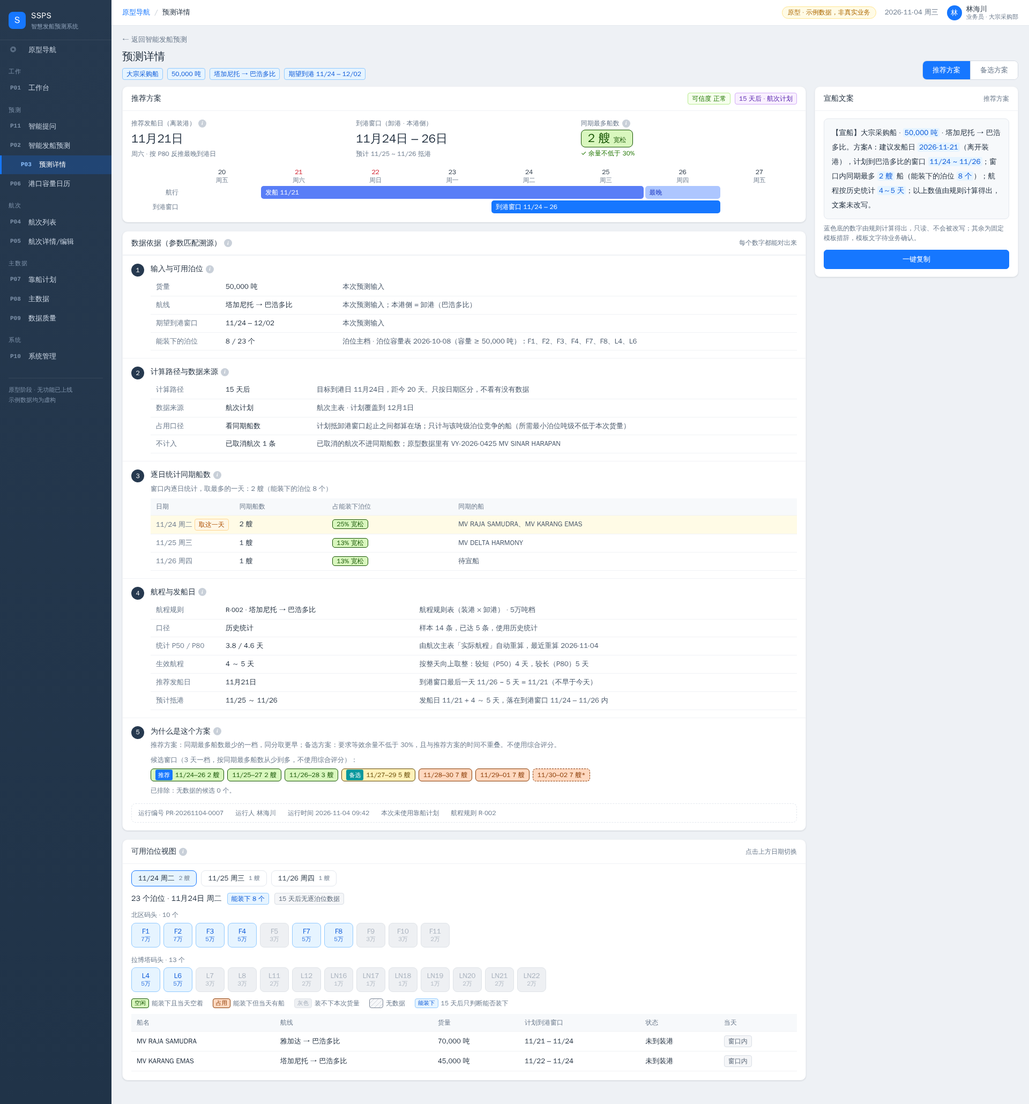
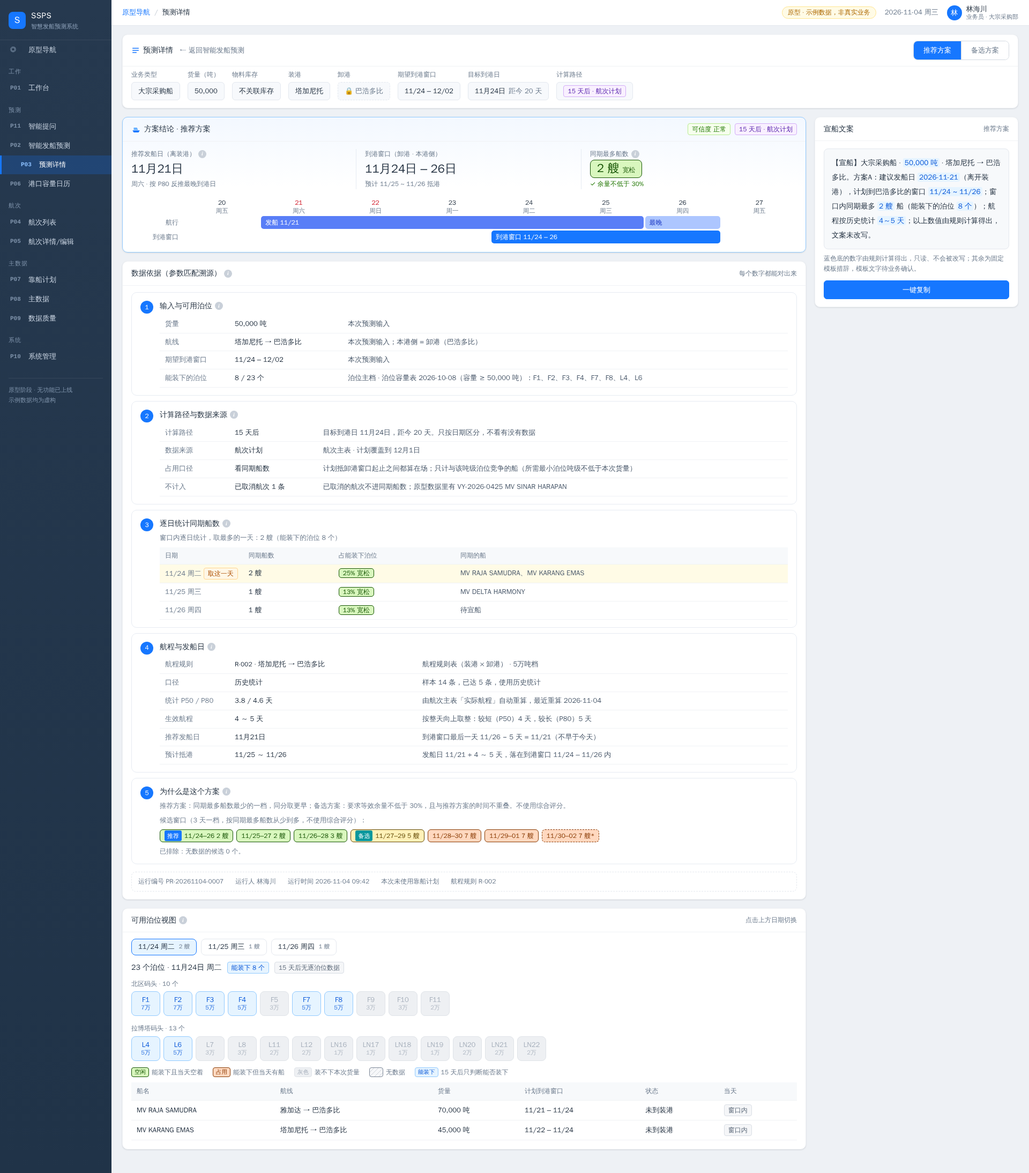
P03 按 P02 新风格重新排版：预测条件卡、方案结论卡、库存保障与趋势卡、S1 步骤卡片化；计算不变
Claude-Session: https://claude.ai/code/session_01S7EgPzREeeBA8rsxhMLUP6

diff --git a/prototype/P03-prediction-detail.html b/prototype/P03-prediction-detail.html
@@ -108,6 +108,52 @@ table.tb th{background:#f7f9fb;color:var(--muted);font-weight:500;font-size:12px
 .fnote{font-size:12px;color:var(--muted);margin-top:8px}
 .msg{padding:28px;color:#3b4a5c}
 @media(max-width:1700px){.bt{width:50px}}
+/* —— 2026-11-05 按 P02 新风格重排（业务逻辑不变） —— */
+.qbar{margin-bottom:16px}
+.qbar .card-h{gap:12px}
+.qbar .card-h .sp{flex:1}
+.qbar .back{margin:0}
+.frow{display:flex;flex-wrap:wrap;gap:12px 14px;align-items:flex-end;padding:6px 16px 14px}
+.ro .f-lab{font-size:12px;color:var(--muted);margin-bottom:4px;white-space:nowrap;display:flex;align-items:center}
+.ro .rv{height:34px;display:flex;align-items:center;gap:6px;border:1px solid #e3e8ef;border-radius:6px;padding:0 12px;background:#f7f9fc;white-space:nowrap;font-weight:500}
+.ro .rv.lock{border-style:dashed;color:var(--muted)}
+.plan-sum{position:relative}
+.plan-sum.A{background:linear-gradient(180deg,#f3f8ff 0,#fff 130px);border:1px solid #91caff}
+.plan-sum.B{background:linear-gradient(180deg,#f2fbfa 0,#fff 130px);border:1px solid #87e8de}
+.plan-sum.low{border:1.5px dashed #ff9c6e}
+.plan-sum .card-h{background:transparent}
+.concl .m+.m{border-left:1px solid #e6ebf2;padding-left:16px}
+.ev{padding:2px 16px 14px}
+.ev .step{border:1px solid #e6ebf2;border-radius:10px;margin-top:10px;background:#fff;position:relative}
+.ev .step:first-of-type{border-top:1px solid #e6ebf2}
+.ev .step .no{background:#1677ff}
+.ev .lowbox{margin:10px 0 0 !important}
+.stk-b{display:grid;grid-template-columns:260px minmax(0,1fr);gap:16px;padding:6px 16px 12px}
+.stk-l{display:flex;flex-direction:column;gap:8px}
+.sr{display:flex;align-items:center;justify-content:space-between;gap:8px;border:1px solid #e6ebf2;border-radius:8px;padding:9px 12px;background:#fbfcfe;white-space:nowrap}
+.sr .k{color:var(--muted);font-size:13px}.sr .v{font-weight:700;font-size:16px}.sr .v small{font-size:12px;font-weight:500;color:var(--muted);margin-left:3px}
+.sr.red{background:#fff1f0;border-color:#ffccc7}.sr.red .v{color:#cf1322}
+.sr.grn{background:#f6ffed;border-color:#d9f7be}.sr.grn .v{color:#237804}
+.lvl{display:inline-block;border-radius:4px;padding:0 8px;font-size:12px;line-height:20px;font-weight:600;margin-left:6px}
+.lvl.ok{background:#f6ffed;color:#237804;border:1px solid #b7eb8f}.lvl.mid{background:#fff7e6;color:#ad4e00;border:1px solid #ffd591}.lvl.bad{background:#fff1f0;color:#a8071a;border:1px solid #ffa39e}
+.stk-r{border:1px solid #e6ebf2;border-radius:10px;min-width:0}
+.stk-r > div > svg{padding:0 8px 8px}
+.tabs2{display:flex;align-items:center;gap:8px;padding:0 12px;border-bottom:1px solid var(--line-2)}
+.tabs2 .tb{border:0;background:none;padding:8px 6px;font-size:14px;color:#5b6878;cursor:pointer;border-bottom:2px solid transparent;margin-bottom:-1px;white-space:nowrap}
+.tabs2 .tb.on{color:#0958d9;border-bottom-color:#1677ff;font-weight:600}
+.tabs2 .sp{flex:1}
+.rseg{display:inline-flex;border:1px solid var(--line);border-radius:6px;overflow:hidden}
+.rseg button{border:0;background:#fff;padding:3px 12px;font-size:13px;cursor:pointer;color:#3b4a5c;border-left:1px solid var(--line);white-space:nowrap}
+.rseg button:first-child{border-left:0}.rseg button.on{background:#1677ff;color:#fff}
+.lgd{display:flex;gap:18px;justify-content:center;flex-wrap:wrap;font-size:12px;color:#5b6878;padding:8px 12px 0}
+.lgd i{display:inline-block;width:22px;height:0;border-top:2.4px solid;vertical-align:middle;margin-right:5px}
+.dtw{max-height:300px;overflow:auto;margin:10px 12px}
+.dtt{width:100%;border-collapse:collapse;font-size:13px}
+.dtt th{text-align:left;color:var(--muted);font-weight:500;padding:6px 8px;border-bottom:1px solid var(--line);position:sticky;top:0;background:#fff}
+.dtt td{padding:5px 8px;border-bottom:1px solid var(--line-2);white-space:nowrap}
+.dtt .r{text-align:right}.dtt tr.k td{background:#fffbe6}.dtt tr.so td{background:#fff1f0;color:#a8071a}
+.bn{margin:0 16px 12px;border-radius:8px;padding:8px 12px;font-size:13px;line-height:1.7}
+.bn.red{background:#fff1f0;border:1px solid #ffa39e;color:#a8071a}.bn.blu{background:#f0f7ff;border:1px solid #b7d8ff;color:#0958d9}
 </style>
 </head>
 <body>
@@ -163,7 +209,7 @@ table.tb th{background:#f7f9fb;color:var(--muted);font-weight:500;font-size:12px
     : { biz: '大宗采购船', tons: 50000, load: 'SURIGAO', disch: 'BAHODOPI', winStart: '2026-11-08', winEnd: '2026-11-18' };
   if (q.get('item')) { const it = M.inventory.items.find((x) => x.name === q.get('item')); if (it) { input.item = it; input.buffer = +(q.get('buf') || 3); input.pathBy = 'end'; } }
   const res = E.predict(input);
-  let which = q.get('plan') === 'B' ? 1 : 0, selDay = null;
+  let which = q.get('plan') === 'B' ? 1 : 0, selDay = null, stkView = 'trend', stkRange = 0;
   const backUrl = 'P02-prediction.html?' + new URLSearchParams({ biz: input.biz, tons: input.tons, load: input.load, disch: input.disch, ws: input.winStart, we: input.winEnd, item: input.item ? input.item.name : '', buf: input.buffer || 3 });
 
   // ---------- 小组件 ----------
@@ -217,7 +263,7 @@ table.tb th{background:#f7f9fb;color:var(--muted);font-weight:500;font-size:12px
       ];
       if (ps) rows.push(['本方案到港时', ps.state === 'safe' ? '不断料' : ps.state === 'tight' ? '缓冲不足' : '断料 ' + ps.gap + ' 天', '到港窗口最后一天 ' + md(c.e) + '：到港前库存 ' + fmt(ps.before) + ' 吨（可用 ' + ps.daysBefore + ' 天）＋ 本船 ' + fmt(i.tons) + ' 吨 ＝ 到港后 ' + fmt(ps.after) + ' 吨，可用 ' + ps.daysAfter + ' 天', ps.state !== 'safe']);
       if (res.urgent) rows.push(['说明', '最快到港', '按最快航程也赶不上断料日：已改为「最快到港」优先，不再比较港口余量；请同时联系供应商或调拨', true]);
-      h += step(nx(), '库存与断料', '预测先排除会断料的时间，再在剩下的时间里按港口容量选最宽松的。这是硬约束，不是评分。', '', kvTable(rows) + '<div style="margin-top:10px">' + window.StockChart.html(it, { latest: st.latest, marks: [{ d: c.e, tons: i.tons, label: p.label, color: p.label === 'A' ? '#1677ff' : '#08979c' }], warnDays: 15, width: Math.max(560, (document.getElementById('page').clientWidth || 1400) - 380 - 16 - 90) }) + '</div>');
+      h += step(nx(), '库存与断料', '预测先排除会断料的时间，再在剩下的时间里按港口容量选最宽松的。这是硬约束，不是评分。', '', kvTable(rows) + '<div class="fnote">曲线见上方「库存保障与趋势」。</div>');
     }
     // 1 输入与泊位池
     h += step(nx(), '输入与可用泊位', '只统计容量不小于货量的启用泊位，它们是泊位余量率的基数。容量以《泊位容量表》为准，不按历史靠泊记录调整。', '',
@@ -328,12 +374,51 @@ table.tb th{background:#f7f9fb;color:var(--muted);font-weight:500;font-size:12px
     return h + '</div>';
   }
 
+  // ---------- 库存保障与趋势（与 P02 同样式；只标当前方案） ----------
+  function stockCard(p) {
+    const st = res.stock; if (!st) return '';
+    const it = st.item, so = st.so, l = it.days >= 25 ? ['ok', '充裕'] : it.days >= 15 ? ['mid', '偏紧'] : ['bad', '危险'];
+    const marks = [{ d: p.c.e, tons: res.input.tons, label: p.label, color: p.label === 'A' ? '#1677ff' : '#08979c' }];
+    const sr = (k, v, cls) => '<div class="sr ' + (cls || '') + '"><span class="k">' + k + '</span><span class="v">' + v + '</span></div>';
+    const left = sr('当前库存', fmt(it.stock) + '<small>吨</small>') + sr('日耗', fmt(it.daily) + '<small>吨/天</small>') + sr('可用天数', it.days + '<small>天</small><span class="lvl ' + l[0] + '">' + l[1] + '</span>') +
+      sr('断料日', so != null ? mdCn(so) + '<small>' + (so <= E.TODAY ? '已断料' : '距今 ' + (so - E.TODAY) + ' 天') + '</small>' : '不断料<small>模拟期内</small>', so != null ? 'red' : 'grn') +
+      (st.gap ? sr('近期短缺口', md(st.gap.from) + (st.gap.to > st.gap.from ? '–' + md(st.gap.to) : '') + '<small>已被补回</small>') : '') +
+      sr('最晚到港日', (st.latest != null ? mdCn(st.latest) : '—') + '<small>' + (st.latest != null && st.latest < E.TODAY ? '已错过' : '缓冲 ' + st.buffer + ' 天') + '</small>');
+    const until = stkRange ? E.TODAY + stkRange : Math.min(Math.max(E.TODAY + 45, (so || 0) + 14, (st.latest || 0) + 14, p.c.e + 14), E.TODAY + 100);
+    const tabs = '<div class="tabs2"><button class="tb' + (stkView === 'trend' ? ' on' : '') + '" data-sv="trend">库存趋势预测</button><button class="tb' + (stkView === 'detail' ? ' on' : '') + '" data-sv="detail">库存明细</button><span class="sp"></span>' +
+      '<span class="rseg">' + [[7, '7天'], [15, '15天'], [30, '30天'], [0, '全部']].map(([n, t]) => '<button data-sr="' + n + '" class="' + (stkRange === n ? 'on' : '') + '">' + t + '</button>').join('') + '</span>' +
+      ic('只改变显示范围，不改变计算。断料日、最晚到港日或方案到港日超出所选范围时不画出来，选「全部」可以看到。') + '</div>';
+    let body;
+    if (stkView === 'trend') {
+      body = '<div class="lgd"><span><i style="border-color:#1677ff"></i>模拟库存</span><span><i style="border-color:' + marks[0].color + ';border-top-style:dashed"></i>加入' + (p.label === 'A' ? '推荐' : '备选') + '方案后</span><span><i style="border-color:#fa8c16;border-top-style:dashed"></i>危险线（15 天用量）</span></div>' +
+        '<div>' + window.StockChart.html(it, { latest: st.latest, so: st.so, gap: st.gap, marks, warnDays: 15, until: stkRange ? until : undefined, width: Math.max(480, (document.getElementById('page').clientWidth || 1400) - 380 - 16 - 340) }) + '</div>';
+    } else {
+      let prev = null;
+      const rows = it.series.filter((x) => x[0] >= E.TODAY && x[0] <= until).map((x) => { const [d, s0, dl] = x, tg = [];
+        if (d === E.TODAY) tg.push('今天'); if (st.gap && d === st.gap.from) tg.push('短缺口开始'); if (d === st.latest) tg.push('最晚到港'); if (d === so) tg.push('断料日'); if (d === p.c.e) tg.push('本方案到港');
+        if (prev != null && s0 > prev) tg.push('到货 +' + fmt(s0 - prev + dl)); prev = s0;
+        return '<tr class="' + (d === so ? 'so' : tg.length ? 'k' : '') + '"><td>' + md(d) + '</td><td>' + wk(d) + '</td><td class="r">' + fmt(dl) + '</td><td class="r">' + fmt(s0) + '</td><td class="r">' + (dl ? Math.floor(s0 / dl) : '—') + '</td><td>' + tg.join('、') + '</td></tr>'; }).join('');
+      body = '<div class="dtw"><table class="dtt"><thead><tr><th>日期</th><th>星期</th><th class="r">日耗（吨）</th><th class="r">模拟库存（吨）</th><th class="r">可用天数</th><th>标记</th></tr></thead><tbody>' + rows + '</tbody></table></div>';
+    }
+    let note = st.gap ? '<div class="bn blu"><b>' + mdCn(st.gap.from) + ' 有一个短缺口</b>，按最快航程已经赶不上，之后由已排定的到货补回；本次以补回后的下一次断料日为目标。</div>' : '';
+    if (res.urgent) note += '<div class="bn red"><b>按最快航程也赶不上断料日。</b>已改为「最快到港」优先，不再比较港口余量；请同时联系供应商或调拨。</div>';
+    return '<section class="card"><div class="card-h"><h2 class="nw"><svg width="18" height="18" viewBox="0 0 24 24" style="margin-right:6px"><path d="M4 20V10h4v10zM10 20V4h4v16zM16 20v-7h4v7z" fill="#1677ff"/></svg>库存保障与趋势 · ' + it.name + ic('断料日来自库存消耗模拟表（已包含已排定的到货）。到港窗口的最后一天必须不晚于「断料日 − 缓冲天数」。虚线是本方案到港后的库存。') + '</h2><span class="muted">' + M.inventory.source + ' · 更新于 ' + M.inventory.updated.slice(0, 10) + '</span></div>' +
+      '<div class="stk-b"><div class="stk-l">' + left + '</div><div class="stk-r">' + tabs + body + '</div></div>' + note + '</section>';
+  }
+
   // ---------- 页面 ----------
   function render() {
     const page = $('page'), i = res.input;
-    const ctx = '<span class="tag blue">' + i.biz + '</span>' + (i.item ? '<span class="tag blue">' + i.item.name + '</span>' : '') + '<span class="tag blue">' + fmt(i.tons) + ' 吨</span><span class="tag blue">' + zh(i.load) + ' → ' + zh(i.disch) + '</span><span class="tag blue">' + (i.biz === '成品销售船' ? '受载期 ' : '期望到港 ') + md(E.dn(i.winStart)) + ' – ' + md(E.dn(i.winEnd)) + '</span>';
-    let h = '<a class="back" href="' + backUrl + '">← 返回智能发船预测</a><div class="hd"><div><h1>预测详情</h1><div class="ctx">' + ctx + '</div></div>' +
-      '<div class="tabs" id="ptabs"><button data-p="0"' + (which === 0 ? ' class="on"' : '') + '>推荐方案</button><button data-p="1"' + (which === 1 ? ' class="on"' : '') + (res.plans && res.plans[1] ? '' : ' disabled') + '>备选方案</button></div></div>';
+    const ctx0 = '<span class="tag blue">' + i.biz + '</span>' + (i.item ? '<span class="tag blue">' + i.item.name + '</span>' : '') + '<span class="tag blue">' + fmt(i.tons) + ' 吨</span><span class="tag blue">' + zh(i.load) + ' → ' + zh(i.disch) + '</span><span class="tag blue">' + (i.biz === '成品销售船' ? '受载期 ' : '期望到港 ') + md(E.dn(i.winStart)) + ' – ' + md(E.dn(i.winEnd)) + '</span>';
+    const prod0 = i.biz === '成品销售船', R0 = res.run || {}, le0 = R0.mode === 'cmr', mixed0 = R0.mode === 'mixed';
+    const ro = (lab, v, cls) => '<div class="ro"><div class="f-lab">' + lab + '</div><div class="rv ' + (cls || '') + '">' + v + '</div></div>';
+    const pathTag = R0.mode ? '<span class="tag ' + (le0 || mixed0 ? 'blue' : '') + '"' + (le0 || mixed0 ? '' : ' style="background:#f9f0ff;color:#531dab;border-color:#d3adf7"') + '>' + (mixed0 ? '各候选日期分别计算' : le0 ? '近 15 天 · 靠船计划' : '15 天后 · 航次计划') + '</span>' : '—';
+    let h = '<section class="card qbar"><div class="card-h"><h2 class="nw"><svg width="16" height="16" viewBox="0 0 24 24" style="margin-right:6px"><path d="M4 6h16M4 12h16M4 18h10" stroke="#1677ff" stroke-width="2.2" stroke-linecap="round"/></svg>预测详情</h2><a class="back" href="' + backUrl + '">← 返回智能发船预测</a><span class="sp"></span>' +
+      '<div class="tabs" id="ptabs"><button data-p="0"' + (which === 0 ? ' class="on"' : '') + '>推荐方案</button><button data-p="1"' + (which === 1 ? ' class="on"' : '') + (res.plans && res.plans[1] ? '' : ' disabled') + '>备选方案</button></div></div>' +
+      '<div class="frow">' + ro('业务类型', i.biz) + ro('货量（吨）', fmt(i.tons)) + ro('物料库存', i.item ? i.item.name : '不关联库存') +
+      ro('装港', (prod0 ? '🔒 ' : '') + zh(i.load), prod0 ? 'lock' : '') + ro('卸港', (prod0 ? '' : '🔒 ') + zh(i.disch), prod0 ? '' : 'lock') +
+      ro(prod0 ? '受载期' : '期望到港窗口', md(E.dn(i.winStart)) + ' – ' + md(E.dn(i.winEnd))) +
+      (R0.target != null ? ro('目标到港日', mdCn(R0.target) + '<span class="muted" style="font-weight:400">距今 ' + R0.dist + ' 天</span>') : '') + ro('计算路径', pathTag) + '</div></section>';
     if (res.errors.length || res.noRule || res.noCandidate || !res.plans || !res.plans[which]) {
       const why = res.errors.join('；') || (res.noRule ? '没有找到「' + zh(i.load) + ' → ' + zh(i.disch) + '」的航程，没有航程就推不出发船日。' : '这个时间窗口内没有可以推荐的方案。');
       page.innerHTML = h + '<div class="card msg"><b>没有可展示的方案</b><br>' + why + ' 请返回预测页调整后再看。</div>'; return;
@@ -351,10 +436,10 @@ table.tb th{background:#f7f9fb;color:var(--muted);font-weight:500;font-size:12px
     m3 = le ? '<div class="m"><div class="lb">最低泊位余量' + ic('窗口里每天算一次泊位余量率，取最低的一天。') + '</div><div class="big ' + cmrCls(p.c.metric) + '"><b>' + pct(p.c.metric) + '</b><span>' + cmrLab(p.c.metric) + '</span></div><div class="sub">' + (p.qualifies ? '<span style="color:#237804">✓ 不低于 30%</span>' : '<span style="color:#ad2102">✗ 低于 30%</span>') + '</div></div>'
       : '<div class="m"><div class="lb">同期最多船数' + ic('窗口内每天与你的货量竞争同吨级泊位的船数，取最多的一天。') + '</div><div class="big ' + denCls(p.c.metric, P.n) + '"><b>' + p.c.metric + ' 艘</b><span>' + denLab(p.c.metric, P.n) + '</span></div><div class="sub">' + (p.qualifies ? '<span style="color:#237804">✓ 余量不低于 30%</span>' : '<span style="color:#ad2102">✗ 余量低于 30%</span>') + '</div></div>';
     const trust = p.trust === '低可信' ? '<span class="tag lowtrust">⚠ 低可信</span>' : '<span class="tag green">可信度 正常</span>';
-    const concl = '<section class="card"><div class="card-h"><h2>' + (p.label === 'A' ? '推荐方案' : '备选方案') + '</h2><span style="display:flex;gap:8px;align-items:center">' + trust + '<span class="tag ' + (le ? 'blue' : '') + '"' + (le ? '' : ' style="background:#f9f0ff;color:#531dab;border-color:#d3adf7"') + '>' + (le ? '近 15 天 · 靠船计划' : '15 天后 · 航次计划') + '</span></span></div>' +
+    const concl = '<section class="card plan-sum ' + p.label + (p.trust === '低可信' ? ' low' : '') + '"><div class="card-h"><h2 class="nw"><svg width="18" height="18" viewBox="0 0 24 24" style="margin-right:6px"><path d="M3 15h18l-3 5H6z" fill="#1677ff"/><path d="M6 14V8h8l3 6z" fill="#69b1ff"/></svg>方案结论 · ' + (p.label === 'A' ? '推荐方案' : '备选方案') + '</h2><span style="display:flex;gap:8px;align-items:center">' + trust + '<span class="tag ' + (le ? 'blue' : '') + '"' + (le ? '' : ' style="background:#f9f0ff;color:#531dab;border-color:#d3adf7"') + '>' + (le ? '近 15 天 · 靠船计划' : '15 天后 · 航次计划') + '</span></span></div>' +
       '<div class="concl">' + m1 + m2 + m3 + '</div>' + timeline(p) + '</section>';
     // 数据依据
-    const ev = '<section class="card"><div class="card-h"><h2>数据依据（参数匹配溯源）' + ic('每个数字来自哪张表、哪个批次、哪条航程规则。数值全部由规则计算得出，不经过任何生成式模型改写；德龙版称为 S1 溯源。') + '</h2><span class="muted">每个数字都能对出来</span></div>' + evidence(p) +
+    const ev = '<section class="card"><div class="card-h"><h2>数据依据（参数匹配溯源）' + ic('每个数字来自哪张表、哪个批次、哪条航程规则。数值全部由规则计算得出，不经过任何生成式模型改写；德龙版称为 S1 溯源。') + '</h2><span class="muted">每个数字都能对出来</span></div><div class="ev">' + evidence(p) + '</div>' +
       '<div class="tech"><span>运行编号 <span class="mono">' + R.id + '</span></span><span>运行人 ' + R.runBy + '</span><span>运行时间 ' + R.at + '</span>' + (R.batchNo ? '<span>靠船计划批次 <span class="mono">' + R.batchNo + '</span></span>' : '<span>本次未使用靠船计划</span>') + (R.rule ? '<span>航程规则 <span class="mono">' + R.rule.id + '</span></span>' : '') + '</div></section>';
     // 泊位视图
     const bv = '<section class="card"><div class="card-h"><h2>可用泊位视图' + ic('选一天看 23 个泊位的状态。默认选窗口里最紧的一天，也就是决定「最低泊位余量」的那一天。') + '</h2><span class="muted">点击上方日期切换</span></div><div id="bv">' + berthView(p) + '</div></section>';
@@ -363,7 +448,9 @@ table.tb th{background:#f7f9fb;color:var(--muted);font-weight:500;font-size:12px
     const side = '<aside class="side"><section class="card"><div class="card-h"><h2>宣船文案</h2><span class="muted">' + (p.label === 'A' ? '推荐方案' : '备选方案') + '</span></div><div class="card-b">' +
       '<div class="annc">' + parts.map((x) => x.v ? '<span class="v">' + x.t + '</span>' : x.t).join('') + '</div><div class="fnote">蓝色底的数字由规则计算得出，只读、不会被改写；其余为固定模板措辞，模板文字待业务确认。</div>' +
       '<button class="btn primary lg" id="copy" style="width:100%;margin-top:12px">一键复制</button></div></section></aside>';
-    page.innerHTML = h + '<div class="work"><div class="stack">' + concl + ev + bv + '</div>' + side + '</div>';
+    page.innerHTML = h + '<div class="work"><div class="stack">' + concl + stockCard(p) + ev + bv + '</div>' + side + '</div>';
+    page.querySelectorAll('[data-sv]').forEach((b) => b.onclick = () => { stkView = b.dataset.sv; render(); });
+    page.querySelectorAll('[data-sr]').forEach((b) => b.onclick = () => { stkRange = +b.dataset.sr; render(); });
     $('ptabs').querySelectorAll('button').forEach((b) => b.onclick = () => { if (b.disabled) return; which = +b.dataset.p; selDay = null; history.replaceState(null, '', '?' + new URLSearchParams(Object.assign(Object.fromEntries(q), { plan: which ? 'B' : 'A' }))); render(); });
     $('bv').addEventListener('click', (e) => { const t = e.target.closest('.dtab'); if (t) { selDay = +t.dataset.d; $('bv').innerHTML = berthView(res.plans[which]); } });
     $('copy').onclick = () => { const txt = parts.map((x) => x.t).join(''); (navigator.clipboard ? navigator.clipboard.writeText(txt) : Promise.reject()).then(() => toast('已复制到剪贴板'), () => toast('已生成（原型环境无法写剪贴板）')); };

diff --git a/docs/review/review-pack-1-spec.md b/docs/review/review-pack-1-spec.md
@@ -1900,6 +1900,7 @@ D01–D10 及 D11–D12 见 `docs/schema/D-app-db.md`。库存断料纳入一期
 - [ ] **P07「是否德信」怎么推导**：T10 已删除这个字段（原始文件没有），但 P07 页面保留「是否德信」列和「只看德信船」筛选（Leyinet 2026-11-05 要求），改为显示时按「从属单位」推导，只用于显示和筛选，不影响泊位余量。真实的从属单位有 130 多种写法，原型暂按「含『德信』」判断。请给出算作德信的写法清单（如 德信DSI、德天DCI 是否算）。
 - [x] **P11 按效果图重构**（2026-11-05）：采纳了四阶段流程（输入需求 → 智能解析 → 库存测算 → 生成方案）、可编辑的解析结果、六张指标卡、库存趋势 / 库存明细切换和 7 / 15 / 30 天显示范围、右侧「按物料 / 按风险」分组。计算全部沿用原引擎。效果图里这几项没有做，因为需要新功能或数据、规格里没有：方案对比、保存方案、导出报告、加入跟踪（需要新的存储表）；右侧「按工序」（库存表没有工序字段）；「库存模型设置」（缓冲天数已在页面里可调，15 / 25 天分档沿用德龙版）；顶部通知铃铛。效果图里的「缺料日」统一叫「断料日」。如需其中某项，确认后再进规格。
 - [x] **P02 方案卡片在库存模拟图上面**（2026-11-05 Leyinet）：已调整顺序。
+- [x] **P03 按 P02 新风格重新排版**（2026-11-05）：顶部「预测详情」卡片列出本次预测条件（只读）和推荐 / 备选切换；「方案结论」卡片按方案着色；有物料时新增「库存保障与趋势」卡片（与 P02 同款，只标当前方案）；S1 数据依据各步骤改成独立小卡片，库存步骤只保留数字来源表，曲线移到上方卡片；泊位视图和宣船文案不变。计算不变。
 - [x] **P02 按效果图重新排版**（2026-11-05）：预测输入改为顶部横向一行，预测结果概览并入输入卡片底部；「发船方案建议」卡片里并排推荐 / 备选；「库存保障与趋势」左侧指标、右侧趋势图 / 库存明细和 7 / 15 / 30 天 / 全部显示范围；港口容量日历不变。计算不变。效果图里的「方案对比」按钮没有做（推荐、备选已并排，规格里没有单独的对比功能），「同步服务船数」「缺料日」「可实施」按规格用语写成「同期最多船数」「断料日」「可信度」。显示范围只裁剪图表，断料日等标记超出范围时不画，默认「全部」。
 
 ## 外部评审第二轮（2026-11-05，核对记录见 docs/review/round2-verification.md）

diff --git a/docs/open-questions.md b/docs/open-questions.md
@@ -98,6 +98,7 @@
 - [ ] **P07「是否德信」怎么推导**：T10 已删除这个字段（原始文件没有），但 P07 页面保留「是否德信」列和「只看德信船」筛选（Leyinet 2026-11-05 要求），改为显示时按「从属单位」推导，只用于显示和筛选，不影响泊位余量。真实的从属单位有 130 多种写法，原型暂按「含『德信』」判断。请给出算作德信的写法清单（如 德信DSI、德天DCI 是否算）。
 - [x] **P11 按效果图重构**（2026-11-05）：采纳了四阶段流程（输入需求 → 智能解析 → 库存测算 → 生成方案）、可编辑的解析结果、六张指标卡、库存趋势 / 库存明细切换和 7 / 15 / 30 天显示范围、右侧「按物料 / 按风险」分组。计算全部沿用原引擎。效果图里这几项没有做，因为需要新功能或数据、规格里没有：方案对比、保存方案、导出报告、加入跟踪（需要新的存储表）；右侧「按工序」（库存表没有工序字段）；「库存模型设置」（缓冲天数已在页面里可调，15 / 25 天分档沿用德龙版）；顶部通知铃铛。效果图里的「缺料日」统一叫「断料日」。如需其中某项，确认后再进规格。
 - [x] **P02 方案卡片在库存模拟图上面**（2026-11-05 Leyinet）：已调整顺序。
+- [x] **P03 按 P02 新风格重新排版**（2026-11-05）：顶部「预测详情」卡片列出本次预测条件（只读）和推荐 / 备选切换；「方案结论」卡片按方案着色；有物料时新增「库存保障与趋势」卡片（与 P02 同款，只标当前方案）；S1 数据依据各步骤改成独立小卡片，库存步骤只保留数字来源表，曲线移到上方卡片；泊位视图和宣船文案不变。计算不变。
 - [x] **P02 按效果图重新排版**（2026-11-05）：预测输入改为顶部横向一行，预测结果概览并入输入卡片底部；「发船方案建议」卡片里并排推荐 / 备选；「库存保障与趋势」左侧指标、右侧趋势图 / 库存明细和 7 / 15 / 30 天 / 全部显示范围；港口容量日历不变。计算不变。效果图里的「方案对比」按钮没有做（推荐、备选已并排，规格里没有单独的对比功能），「同步服务船数」「缺料日」「可实施」按规格用语写成「同期最多船数」「断料日」「可信度」。显示范围只裁剪图表，断料日等标记超出范围时不画，默认「全部」。
 
 ## 外部评审第二轮（2026-11-05，核对记录见 docs/review/round2-verification.md）
